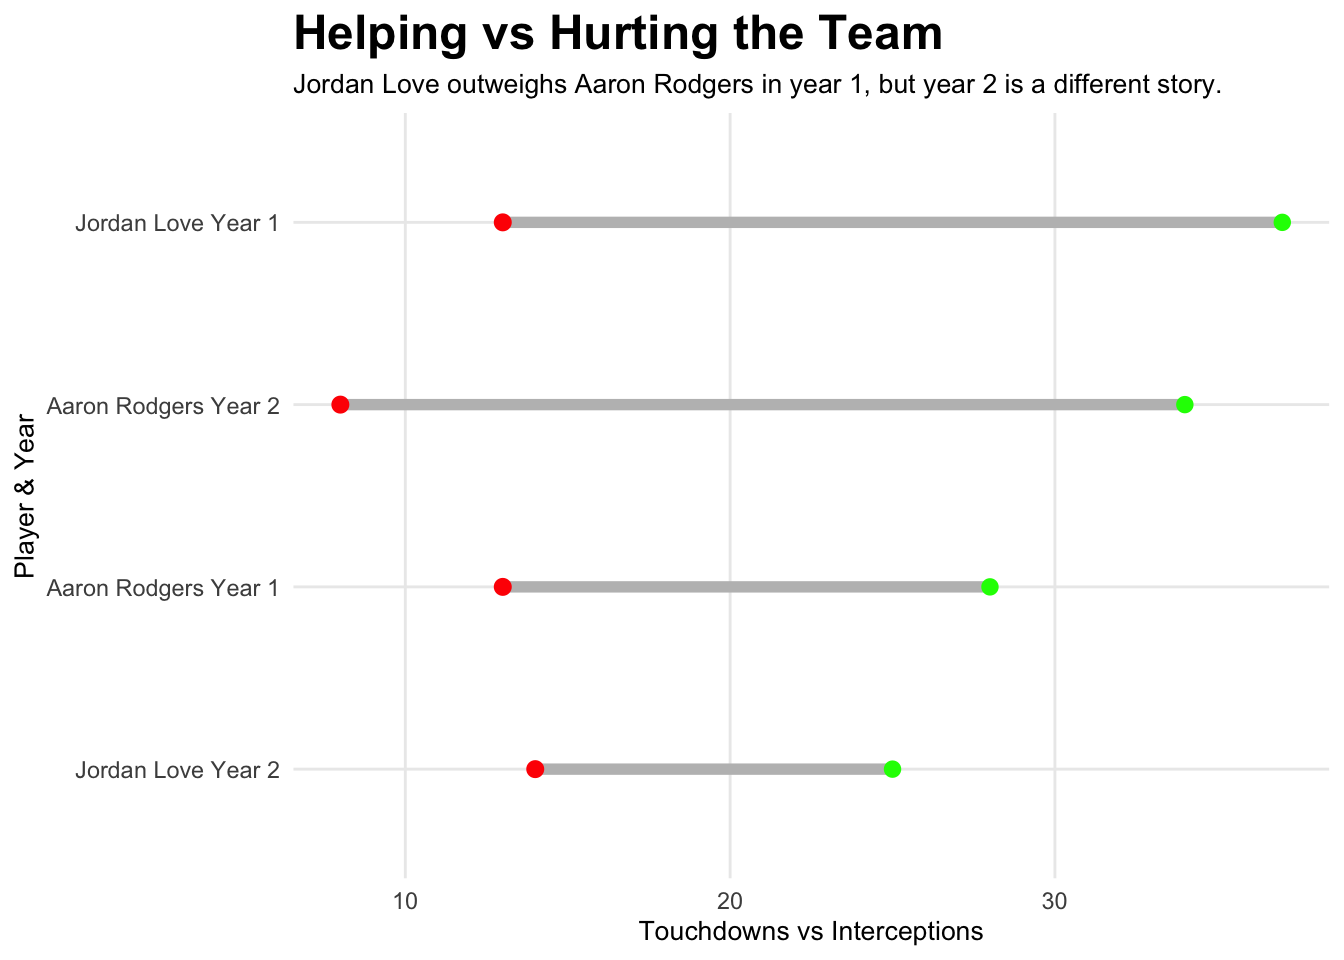
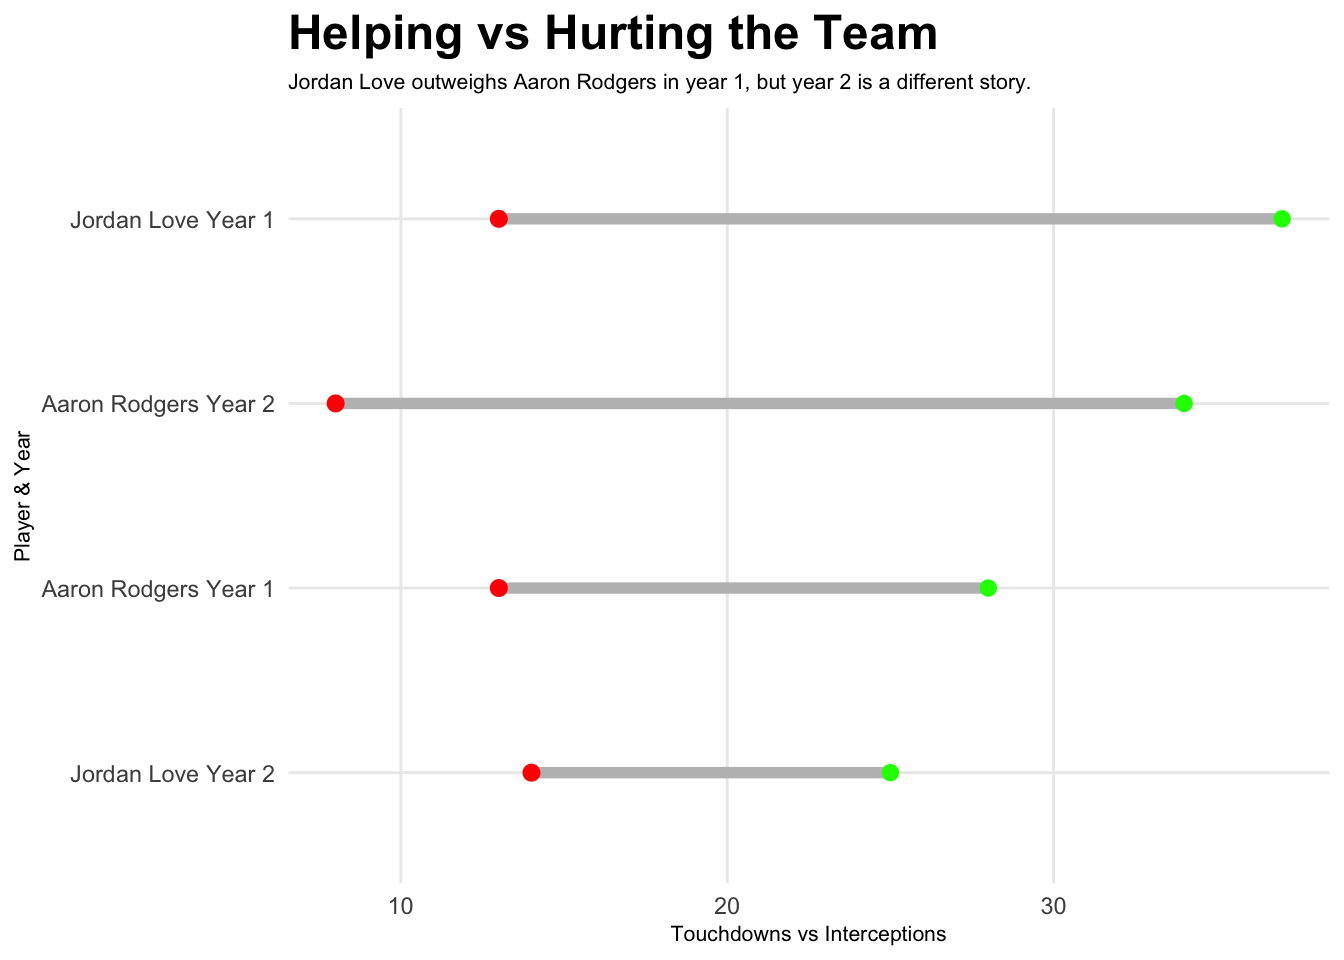
project2update2

diff --git a/posts/jordan-love-vs-aaron-rodgers/index.html b/posts/jordan-love-vs-aaron-rodgers/index.html
@@ -349,8 +349,8 @@ pre > code.sourceCode > span > a:first-child::before { text-decoration: underlin
 <span id="cb3-36"><a href="#cb3-36" aria-hidden="true" tabindex="-1"></a>    <span class="at">plot.title =</span> <span class="fu">element_text</span>(<span class="at">size =</span> <span class="dv">18</span>, <span class="at">face =</span> <span class="st">"bold"</span>),</span>
 <span id="cb3-37"><a href="#cb3-37" aria-hidden="true" tabindex="-1"></a>    <span class="at">panel.background =</span> <span class="fu">element_rect</span>(<span class="at">fill =</span> <span class="st">"white"</span>, <span class="at">color =</span> <span class="cn">NA</span>),</span>
 <span id="cb3-38"><a href="#cb3-38" aria-hidden="true" tabindex="-1"></a>    <span class="at">plot.background =</span> <span class="fu">element_rect</span>(<span class="at">fill =</span> <span class="st">"white"</span>, <span class="at">color =</span> <span class="cn">NA</span>),</span>
-<span id="cb3-39"><a href="#cb3-39" aria-hidden="true" tabindex="-1"></a>    <span class="at">plot.subtitle =</span> <span class="fu">element_text</span>(<span class="at">size =</span> <span class="dv">10</span>),</span>
-<span id="cb3-40"><a href="#cb3-40" aria-hidden="true" tabindex="-1"></a>    <span class="at">axis.title =</span> <span class="fu">element_text</span>(<span class="at">size =</span> <span class="dv">10</span>),</span>
+<span id="cb3-39"><a href="#cb3-39" aria-hidden="true" tabindex="-1"></a>    <span class="at">plot.subtitle =</span> <span class="fu">element_text</span>(<span class="at">size =</span> <span class="dv">8</span>),</span>
+<span id="cb3-40"><a href="#cb3-40" aria-hidden="true" tabindex="-1"></a>    <span class="at">axis.title =</span> <span class="fu">element_text</span>(<span class="at">size =</span> <span class="dv">8</span>),</span>
 <span id="cb3-41"><a href="#cb3-41" aria-hidden="true" tabindex="-1"></a>    <span class="at">panel.grid.minor =</span> <span class="fu">element_blank</span>()</span>
 <span id="cb3-42"><a href="#cb3-42" aria-hidden="true" tabindex="-1"></a>  )</span></code><button title="Copy to Clipboard" class="code-copy-button"><i class="bi"></i></button></pre></div>
 </details>

diff --git a/index.html b/index.html
@@ -210,7 +210,7 @@ window.Quarto = {
 
 <div class="quarto-listing quarto-listing-container-default" id="listing-listing">
 <div class="list quarto-listing-default">
-<div class="quarto-post image-right" data-index="0" data-categories="bmZsJTJDZm9vdGJhbGwlMkNxdWFydGVyYmFjaw==" data-listing-date-sort="1746334800000" data-listing-file-modified-sort="1746418314501" data-listing-date-modified-sort="NaN" data-listing-reading-time-sort="8" data-listing-word-count-sort="1412">
+<div class="quarto-post image-right" data-index="0" data-categories="bmZsJTJDZm9vdGJhbGwlMkNxdWFydGVyYmFjaw==" data-listing-date-sort="1746334800000" data-listing-file-modified-sort="1746418377401" data-listing-date-modified-sort="NaN" data-listing-reading-time-sort="8" data-listing-word-count-sort="1412">
 <div class="thumbnail">
 <p><a href="./posts/jordan-love-vs-aaron-rodgers/index.html" class="no-external"></a></p><a href="./posts/jordan-love-vs-aaron-rodgers/index.html" class="no-external">
 <p><img loading="lazy" src="./posts/jordan-love-vs-aaron-rodgers/chart.jpeg" class="thumbnail-image"></p>
